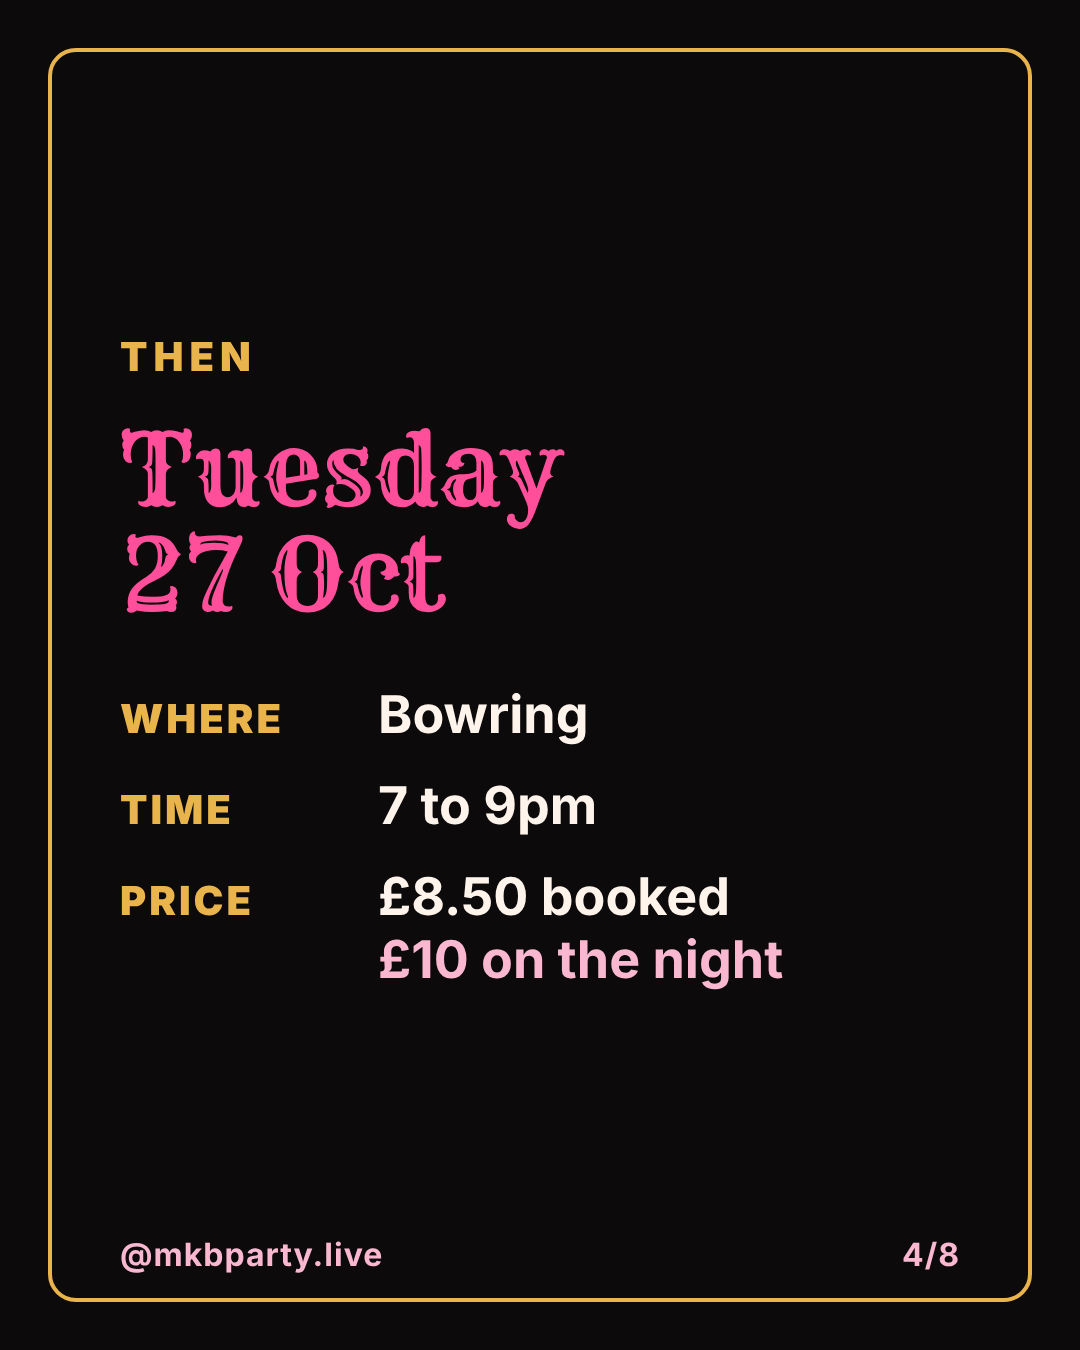
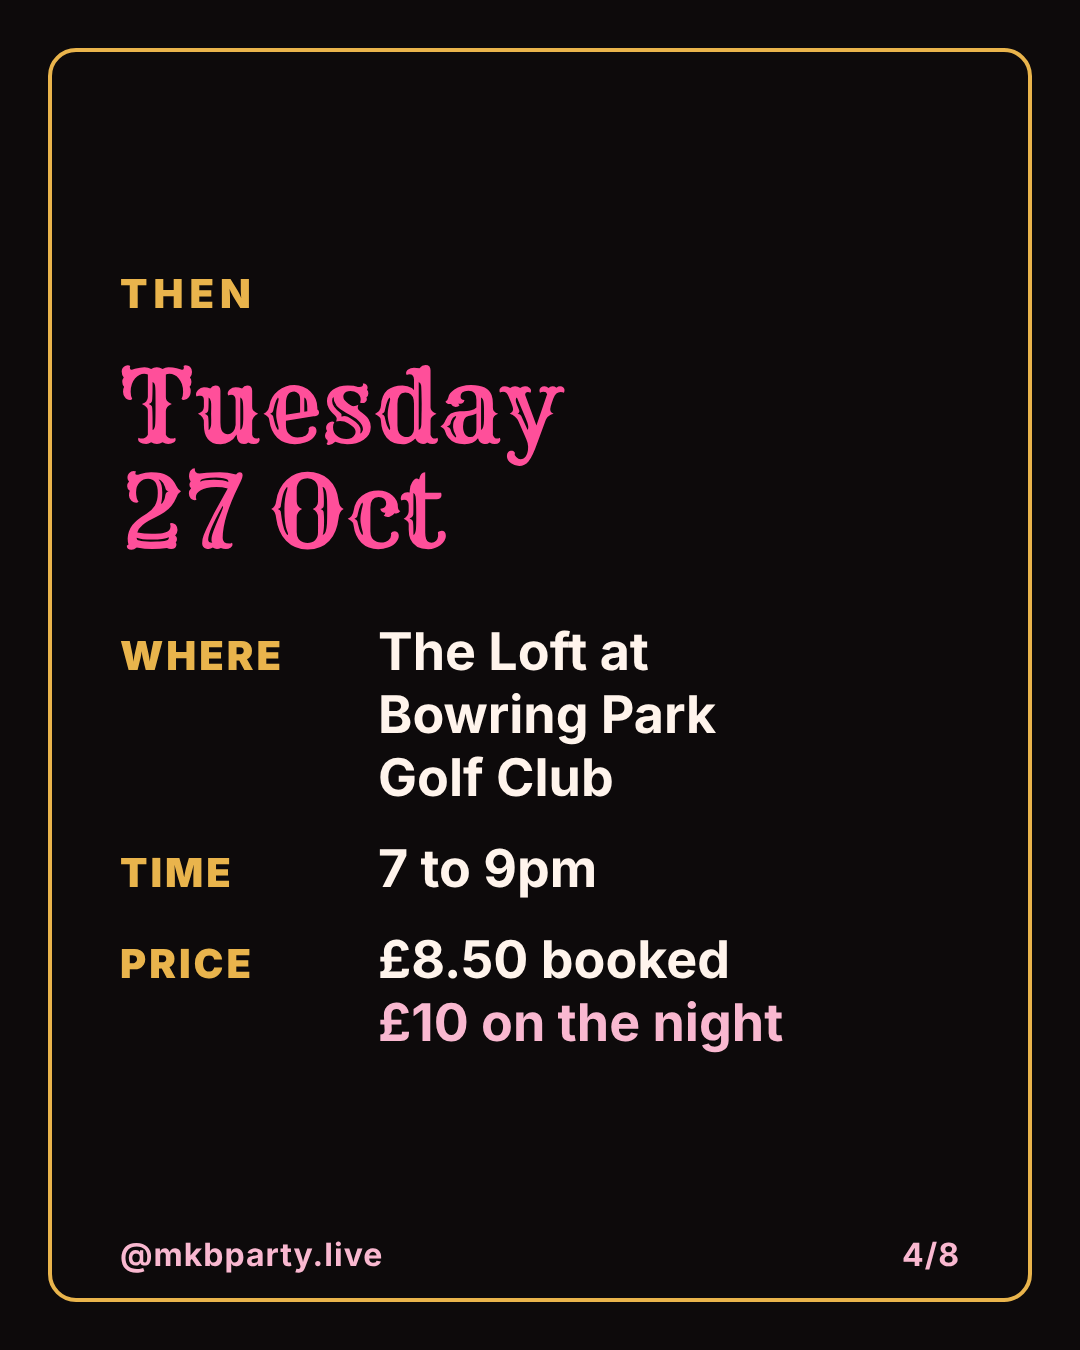
Use full venue names on line dancing carousel
Claude-Session: https://claude.ai/code/session_0164UShronpJKsyK8Zwvd1fS

Changed region(s): [[0.0917, 0.1867, 0.7333, 0.7778], [0.0917, 0.5911, 0.2444, 0.7467]]

diff --git a/carousels/2026-10-26-line-dancing/carousel.html b/carousels/2026-10-26-line-dancing/carousel.html
@@ -60,7 +60,7 @@
     <p class="kicker">This week</p>
     <h1 class="western">Two nights<br>of <span class="pink">line<br>dancing</span></h1>
     <div class="rule"></div>
-    <p class="big"><span class="gold">MON 26</span> Woolton<br><span class="gold">TUE 27</span> Bowring</p>
+    <p class="big" style="font-size:44px;line-height:1.3"><span class="gold" style="font-size:52px">MON 26</span><br>Woolton Village Club<br><span class="gold" style="font-size:52px;display:inline-block;margin-top:20px">TUE 27</span><br>The Loft at Bowring Park Golf Club</p>
   </div>
   <div class="foot"><span>@mkbparty.live</span><span>1/8</span></div>
 </section>
@@ -81,7 +81,7 @@
   <div class="content">
     <p class="kicker">Tomorrow</p>
     <h2 class="western">Monday<br>26 Oct</h2>
-    <div class="row"><span class="label">Where</span><span>Woolton</span></div>
+    <div class="row"><span class="label">Where</span><span>Woolton Village Club</span></div>
     <div class="row"><span class="label">Time</span><span>6.30 to 8.30pm</span></div>
     <div class="row"><span class="label">Price</span><span>£8.50 booked<br><span class="blush">£10 on the night</span></span></div>
   </div>
@@ -93,7 +93,7 @@
   <div class="content">
     <p class="kicker">Then</p>
     <h2 class="western">Tuesday<br>27 Oct</h2>
-    <div class="row"><span class="label">Where</span><span>Bowring</span></div>
+    <div class="row"><span class="label">Where</span><span>The Loft at<br>Bowring Park<br>Golf Club</span></div>
     <div class="row"><span class="label">Time</span><span>7 to 9pm</span></div>
     <div class="row"><span class="label">Price</span><span>£8.50 booked<br><span class="blush">£10 on the night</span></span></div>
   </div>
@@ -126,8 +126,8 @@
 <section class="slide" id="s7">
   <div class="content">
     <h2 class="western" style="margin-bottom:40px;font-size:88px">Both nights</h2>
-    <div class="card"><p class="day">Mon 26 Oct</p><p class="info">Woolton<br>6.30 to 8.30pm</p></div>
-    <div class="card"><p class="day">Tue 27 Oct</p><p class="info">Bowring<br>7 to 9pm</p></div>
+    <div class="card"><p class="day">Mon 26 Oct</p><p class="info" style="font-size:44px">Woolton Village Club<br>6.30 to 8.30pm</p></div>
+    <div class="card"><p class="day">Tue 27 Oct</p><p class="info" style="font-size:44px">The Loft at Bowring Park Golf Club<br>7 to 9pm</p></div>
     <p class="body" style="font-size:42px">£8.50 at <span class="gold">mkbparty.com</span><br>£10 on the night<br><span class="blush">Beginners and all levels</span></p>
   </div>
   <div class="foot"><span>@mkbparty.live</span><span>7/8</span></div>
